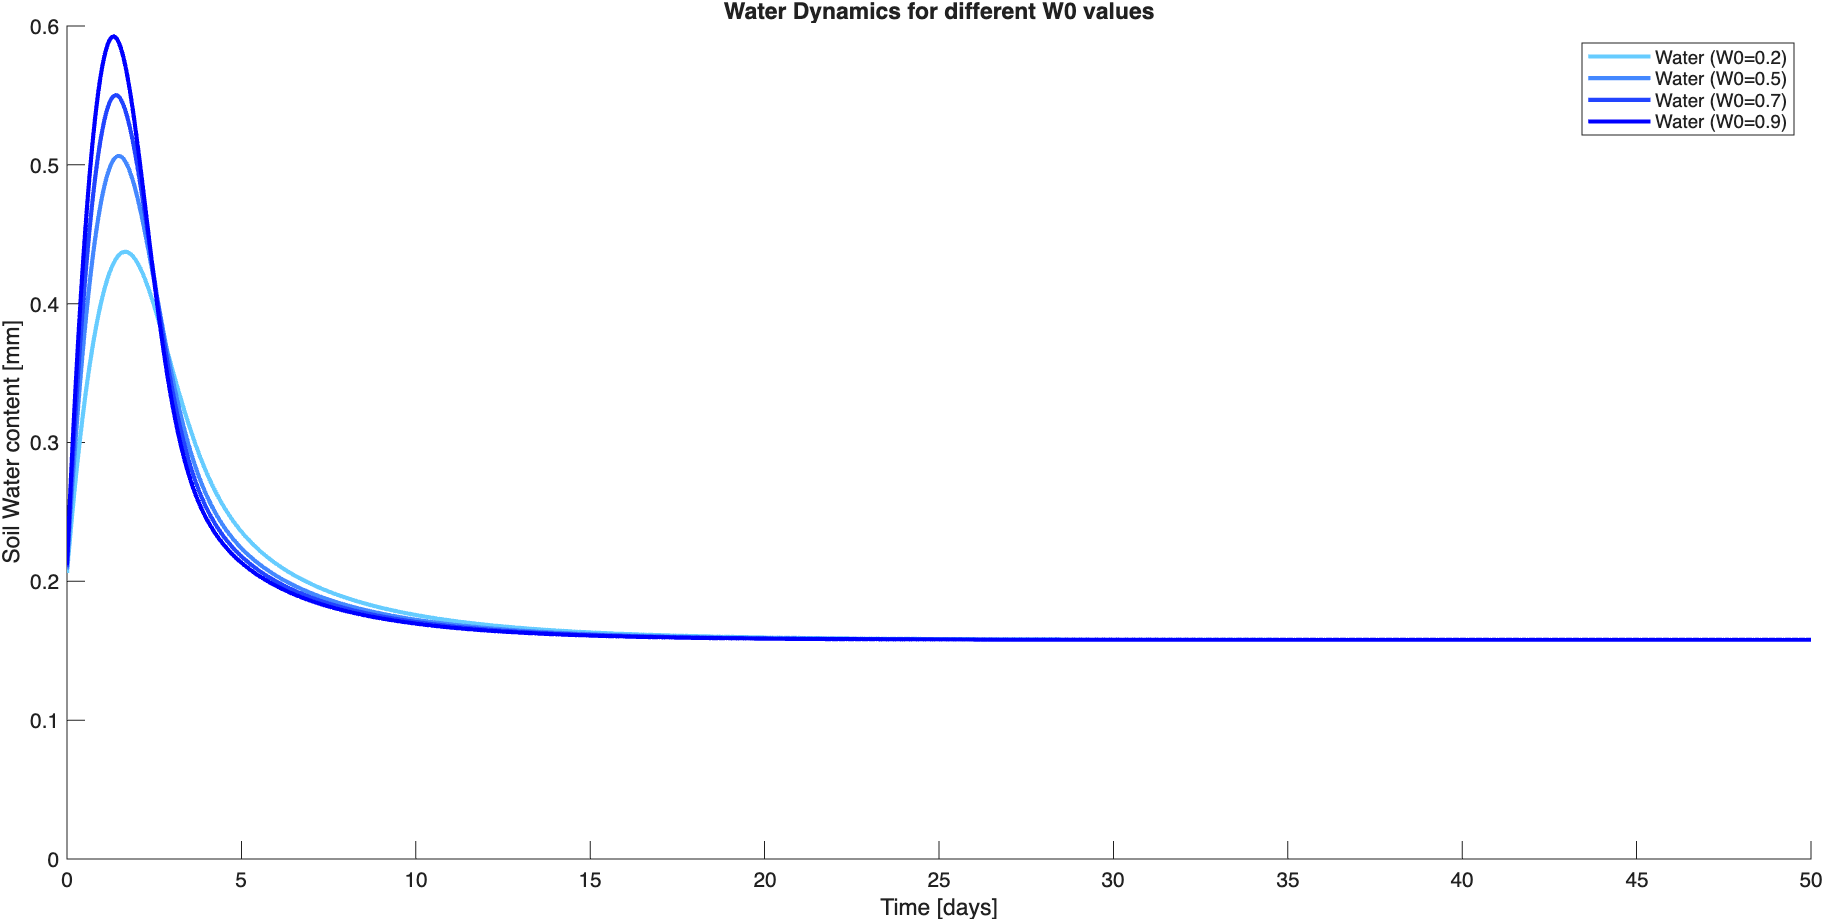
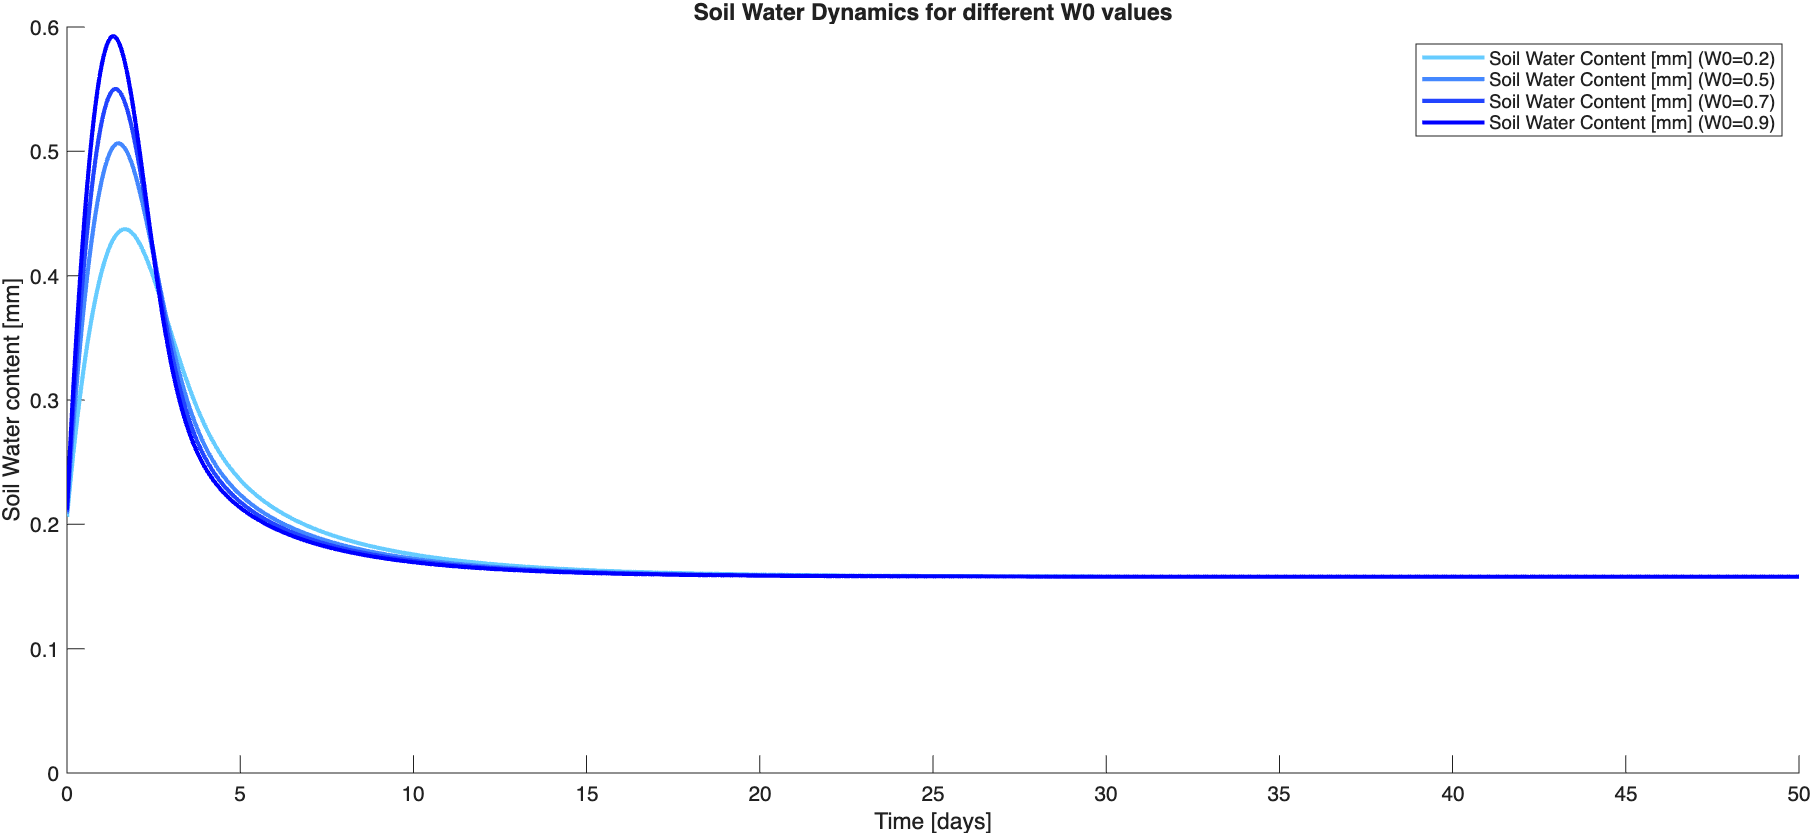
Add 3rd research question script

diff --git a/code/research_question3.m b/code/research_question3.m
@@ -1,10 +1,7 @@
 % Final Assignment
 
-% Research Question 1
+% Research Question 3
 
-
-% --- W0 parameter visualization ---
-w0vec = [0.2, 0.5, 0.7, 0.9];
 figure(1);
 hold on
 legendEntriesWater = {};
@@ -13,95 +10,128 @@ figure(2);
 hold on
 legendEntriesPlant = {};
 
+figure(3);
+hold on
+legendEntriesPPT = {};
+
 blueBase  = [0, 0, 1];     % pure blue
 blueLight = [0.4, 0.8, 1]; % light blue
 greenBase = [0, 0.6, 0];   % pure green
 greenLight = [0.5, 1, 0.5]; % light green
 
-for j=1:4
+
+for j=1:2
     % system parameters
-    PPT = 0.8; % find appropriate values
-    P = 5; % initial value
+    PPT = 0 + (1 - 0) * rand;
+    P = 5; 
     e = 10;
     k1 = 3;
     k2 = 5;
-    W0 = w0vec(j);
-    W = 0.2; % initial value
+    W0 = 0.2;
+    W = 0.2; 
     cmax = 0.5;
     d = 0.1;
     b = 0.15;
-    rw = 0.1; % find appropria9te value 
-
+    rw = 0.1; 
+    
+    
     % --- control parameters ---
     startTime = 0;
-    endTime   = 50;
+    endTime   = 365;
     timeStep  = 0.02;
-    
-    % --- compute iteration count ---
+        
+        % --- compute iteration count ---
     iterations = floor((endTime - startTime)/timeStep) + 1;
-    
-    % --- initialize vectors ---
+        
+        % --- initialize vectors ---
     timeV   = zeros(iterations, 1);
     waterV  = zeros(iterations, 1);
     plantV  = zeros(iterations, 1);
-    
-    % --- initialize state ---
+    pptV = zeros(iterations, 1);
+        
+        % --- initialize state ---
     stateW = W;
     stateP = P;
-    
-    % --- simulation loop ---
+    counter = 0;
+        
+        % --- simulation loop ---
     for i = 1:iterations
         t = startTime + (i-1)*timeStep;
-    
+        counter = counter + 1;
+        if counter > 50
+            PPT = rand * 0.5; % random in [0, 0.5]
+            counter = 1;
+        end
+        
         dWdt = PPT * ((stateP + k2 * W0) / (stateP + k2)) ...
              - ((cmax * stateW) / (stateW + k1)) * stateP ...
              - (rw * stateW);
-    
+        
         dPdt = e * (cmax * (stateW / (stateW + k1))) * stateP ...
              - (d + b) * stateP;
-    
+        
         stateW = stateW + dWdt * timeStep;
         stateP = stateP + dPdt * timeStep;
-    
+        
         % store
         timeV(i)  = t;
         waterV(i) = stateW;
         plantV(i) = stateP;
+        pptV(i) = PPT;
     end
     
     
     % --- plots ---
-    t = (j - 1) / (length(w0vec) - 1);
+    t = (j - 1) / (3);
     waterColor = blueLight * (1 - t) + blueBase * t;
     plantColor = greenLight * (1 - t) + greenBase * t;
+    pptColor = blueLight * (1 - t) + blueBase * t;
 
     % --- plots ---
     figure(1)
     plot(timeV, waterV, 'Color', waterColor, 'LineWidth', 2)
-    legendEntriesWater{end+1} = "Soil Water Content [mm] (W0=" + w0vec(j) + ")";
+    legendEntriesWater{end+1} = "Soil Water Content [mm] for randomized Precipitation Try " + j + "";
 
     figure(2)
     plot(timeV, plantV, 'Color', plantColor, 'LineWidth', 2)
-    legendEntriesPlant{end+1} = "Plant Biomass [g/m^2] (W0=" + w0vec(j) + ")";
+    legendEntriesPlant{end+1} = "Plant Biomass [g/m^2] for randomized Precipitation Try " + j + "";
+
+    figure(3)
+    plot(timeV, pptV, 'Color', pptColor, 'LineWidth', 2)
+    legendEntriesPPT{end+1} = "Precipitation Amount [mm] Try " + j + "";
 
 
 end 
 
-xlim([0 inf])
-ylim([0 35])
 
 figure(1)
+xlim([0 inf])
+ylim([0 0.5])
+
 xlabel("Time [days]")
 ylabel("Soil Water content [mm]")
-title("Soil Water Dynamics for different W0 values")
+title("Soil Water Dynamics for randomized Precipitation")
 legend(legendEntriesWater)
 
-xlim([0 inf])
-ylim([0 0.6])
 
 figure(2)
+xlim([0 inf])
+ylim([0 50])
+
 xlabel("Time [days]")
 ylabel("Plant Biomass [g/m^2]")
-title("Plant Biomass Dynamics for different W0 values")
-legend(legendEntriesPlant, 'Location', 'Southeast')
+title("Vegetation Dynamics for randomized Precipitation")
+legend(legendEntriesPlant)
+
+
+figure(3)
+xlim([0 inf])
+ylim([0 1])
+
+xlabel("Time [days]")
+ylabel("Precipitation [mm]")
+title("Precipitation for a Randomized Precipitation Pattern")
+legend(legendEntriesPPT)
+
+
     

diff --git a/code/research_question2.m b/code/research_question2.m
@@ -78,11 +78,11 @@ for j=1:4
     % --- plots ---
     figure(1)
     plot(timeV, waterV, 'Color', waterColor, 'LineWidth', 2)
-    legendEntriesWater{end+1} = "Water (K2=" + k2vec(j) + ")";
+    legendEntriesWater{end+1} = "Soil Water Content [mm] (K2=" + k2vec(j) + ")";
 
     figure(2)
     plot(timeV, plantV, 'Color', plantColor, 'LineWidth', 2)
-    legendEntriesPlant{end+1} = "Plant (K2=" + k2vec(j) + ")";
+    legendEntriesPlant{end+1} = "Plant Biomass [g/m^2] (K2=" + k2vec(j) + ")";
 
 
 end 
@@ -93,7 +93,7 @@ ylim([0 30])
 figure(1)
 xlabel("Time [days]")
 ylabel("Soil Water content [mm]")
-title("Water Dynamics for different K2 values")
+title("Soil Water Dynamics for different K2 values")
 legend(legendEntriesWater)
 
 
@@ -103,7 +103,7 @@ ylim([0 0.5])
 figure(2)
 xlabel("Time [days]")
 ylabel("Plant Biomass [g/m^2]")
-title("Vegetation Dynamics for different K2 values")
+title("Plant Biomass Dynamics for different K2 values")
 legend(legendEntriesPlant, 'Location', 'Southeast')
 
     

diff --git a/code/state_space.m b/code/state_space.m
@@ -62,7 +62,7 @@ for j=1:4
     
     % plot
     scatter(waterV, plantV, 15, plantColor, 'filled')
-    legendEntriesPlant{end+1} = "Plant Density & Soil Water Content for initial value: (" + P(j) + ", " + W(j) + ")";
+    legendEntriesPlant{end+1} = "Plant Biomass & Soil Water Content for initial value: (" + P(j) + ", " + W(j) + ")";
 end
 % --- plots ---
 
@@ -70,15 +70,15 @@ end
 equilibriumW = waterV(end);
 equilibrumP = plantV(end);
 scatter(waterV(end), plantV(end), 45, [0,0,1], 'filled')
-legendEntriesPlant{end+1} = "Point of Equilibrium: (" + equilibrumP + ", " + equilibriumW + ")";
+legendEntriesPlant{end+1} = "Point of Equilibrium: (" + equilibrumP + " g/m^2, " + equilibriumW + " mm)";
 
 xlabel("Soil water content [mm]")
-ylabel("Plant density [g/m^2]")
-title("Water-Vegetation State Space Diagram")
+ylabel("Plant Biomass [g/m^2]")
+title("Soil Water - Plant Biomass State Space Diagram")
 legend(legendEntriesPlant)
 
 xlim([0 inf])
-ylim([0 60])
+ylim([0 45])
 axis manual
 
 hold off
